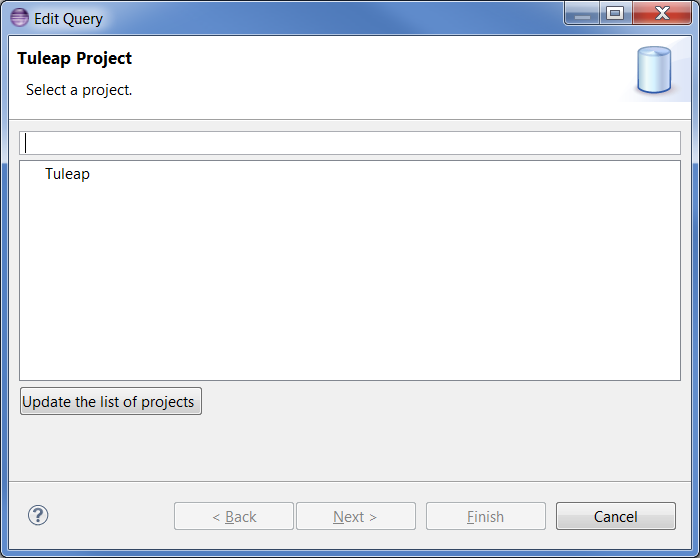
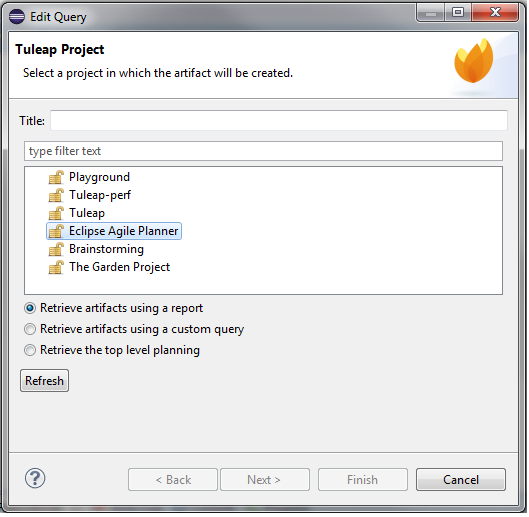
Improve connector documentation.

Changed region(s): [[0.0, 0.0, 1.0, 1.0]]

diff --git a/org.tuleap.mylyn.task.doc/html/maintopic.html b/org.tuleap.mylyn.task.doc/html/maintopic.html
@@ -1,106 +1,174 @@
 <!DOCTYPE HTML PUBLIC "-//W3C//DTD HTML 4.0 Transitional//EN">
 <html>
 <head>
-	<meta http-equiv="Content-Type" content="text/html; charset=iso-8859-1">
-	<title>User Documentation</title>
+<meta http-equiv="Content-Type" content="text/html; charset=iso-8859-1">
+<title>User Documentation</title>
 </head>
 
 <body>
 	<h1>Mylyn Connector for Tuleap - User Documentation</h1>
 	<h2>Install the connector</h2>
-	<p>
-		In order to install the connector, you can use the Eclipse Marketplace available from the
-		"Help -> Eclipse Marketplace" menu. In the marketplace, you just have to search for Tuleap
-		in order to find the latest version of the connector available.
-	</p>
-	
+	<p>In order to install the connector, you can use the Eclipse
+		Marketplace available from the "Help -> Eclipse Marketplace" menu. In
+		the marketplace, you just have to search for Tuleap in order to find
+		the latest version of the connector available.</p>
+
 	<h2>Connect to a Tuleap server</h2>
-	<p>
-		To establish a connection with a Tuleap server, you need to go in the Task Repositories or Team
-		Repositories view in order to create a new Mylyn repository. Select the Task connector "Tuleap
-		Repository Connector" and click next.
-	</p>
+	<p>To establish a connection with a Tuleap server, you need to go
+		in the Task Repositories or Team Repositories view in order to create
+		a new Mylyn repository. Select the Task connector "Tuleap Repository
+		Connector" and click next.</p>
 	<img src="../images/create_repository.png" />
-	<p>
-		In the next page of the wizard, you have access to the page used to connect to the Tuleap server.
-		Use the URL of the trackers of your Tuleap project along with your Tuleap username and password to
-		connect to the Tuleap server as shown in the following screenshot.
-	</p>
+	<p>In the next page of the wizard, you have access to the page used
+		to connect to the Tuleap server. Use the URL of the trackers of your
+		Tuleap project along with your Tuleap username and password to connect
+		to the Tuleap server as shown in the following screenshot.</p>
 	<img src="../images/repository_settings.png" />
-	<p>
-		Your login and password will be valited prior to the connection but you can force the verification
-		to ensure that your credentials are valid. Do not forget to make sure that the connector will
-		remember your password by checking the associated checkbox.
-	</p>
-	
+	<p>Your login and password will be valited prior to the connection
+		but you can force the verification to ensure that your credentials are
+		valid. Do not forget to make sure that the connector will remember
+		your password by checking the associated checkbox.</p>
+
 	<h2>Create a query</h2>
-	<p>
-		Once you have created your repository, Mylyn Task will ask you to create a query in order to retrieve
-		your tasks from the Tuleap server. You can use the new Query wizard in order to create your query. First
-		you will have to select the project for which you want to create the query.
-	</p>
+	<p>Once you have created your repository, Mylyn Task will ask you
+		to create a query in order to retrieve your tasks from the Tuleap
+		server. You can use the new Query wizard in order to create your
+		query. First you will have to select the project for which you want to
+		create the query.</p>
 	<img src="../images/create_query_select_project.png" />
-	<p>
-	    Once your project is selected, you will see the list of all the trackers of the selected project.
-	</p>
+	<p>Once your project is selected, you have to select the type of
+		query to perform. In fact, there are three types of queries. The first
+		one uses reports relying on a specific tracker of the selected
+		project. To create a such query, you can select the first alternative
+		and give a name to your query. Then you can select the concerned
+		tracker and validate your choice.</p>
 	<img src="../images/create_query_select_tracker.png" />
-	<p>
-		In this wizard, you can create two kinds of queries: locally created ones or queries saved on the server.
-		In your Tuleap project, you may have created reports in order to vizualize a specific set of tasks matching
-		a set of critera, you can execute those reports directly from the Mylyn Connector for Tuleap. you can
-		also define new queries directly in Eclipse.
-	</p>
-	<img src="../images/create_query_reports.png" />
-	<p>
-	    You can access your reports from the third page of the wizard or you can continue to the fourth page to create
-	    a custom query.
-	</p>
+	<p>The second type relies on a specific set of criteria, in order
+		to filter the results according to these criteria. There is one
+		criterion per field, and each criterion entered is used to filter the
+		results returned. Just leave a criterion empty (as it is by default)
+		if you don't want to use it to filter the results. A query is somewhat
+		like a Tuleap report, except the criteria are stored in your eclipse,
+		not on the Tuleap server. So, such a query cannot be shared with other
+		users.</p>
 	<img src="../images/custom_query.png" />
-	<p>
-		When your query has been executed by Mylyn Task, its result will be available in the Task List view.
-		In this view, you can see the list of the tasks matching your query along with the completion of the query.
-	</p>
-	
+	<p>The third type of query is used to access the Top-level
+		planning. The top-level planning allows you to plan top-level backlog
+		items in top-level milestones. For instance, if you use Sprints in
+		Releases, you'll be able to plan which backlog items should go into
+		which release. To do so, you can select the relevant project, select
+		the third alternative and validate your query.</p>
+	<img src="../images/top_planning_query.png" />
+	<p>When your query has been executed by Mylyn Task, its result will
+		be available in the Task List view. In this view, you can see the list
+		of the tasks matching your query along with the completion of the
+		query.</p>
+
 	<h2>Display and edit tasks</h2>
-	<p>
-		If you want to display a specific task, you just have to double click on it from the Task List view.
-	</p>
+	<p>If you want to display a specific task, you just have to double
+		click on it from the Task List view.</p>
 	<img src="../images/task_editor.png" />
-		
+
 	<h2>Update a task</h2>
-	<p>
-		Once modified, you can update the task on the Tuleap server by using the "Submit" button on top of the
-		editor.
-	</p>
-	
+	<p>Once modified, you can update the task on the Tuleap server by
+		using the "Submit" button on top of the editor.</p>
+
 	<h2>Add attachments</h2>
-	<p>
-		If the configuration of your Tuleap tracker allows it, you can add attachments to your task directly
-		from the Tuleap task editor.
-	</p>
+	<p>If the configuration of your Tuleap tracker allows it, you can
+		add attachments to your task directly from the Tuleap task editor.</p>
 	<img src="../images/attachments.png" />
-	<p>
-		You can also use the screenshot tooling to directly attach a screenshot with various annotations. 
-	</p>
+	<p>You can also use the screenshot tooling to directly attach a
+		screenshot with various annotations.</p>
 	<img src="../images/screenshot_attachment_editor.png" />
-	
+
 	<h2>Link with the context</h2>
-	<p>
-		Mylyn Task will let you activate a specific task thanks to the round button in the Task List view and
-		at the top of the task editor. Once a task has been activated, all manipulated elements will be linked
-		with the active task. You can see those linked element in the context tab of the task editor. When you
-		are done working on a specific task, you just need to uncheck the activate task button. The task and its
-		context will then be closed.
-	</p>
+	<p>Mylyn Task will let you activate a specific task thanks to the
+		round button in the Task List view and at the top of the task editor.
+		Once a task has been activated, all manipulated elements will be
+		linked with the active task. You can see those linked element in the
+		context tab of the task editor. When you are done working on a
+		specific task, you just need to uncheck the activate task button. The
+		task and its context will then be closed.</p>
 	<img src="../images/context.png" />
-	<p>
-		You can easily retrieve the context of a task by re-activating it. All the elements of the context that
-		you had used will be reopened. 
-	</p>
-	<p>
-		You can easily attach the context of a task as an attachment and submit it on the Tuleap server. You
-		can retrieve the context from an attachment too.
-	</p>
-	
-</body>
+	<p>You can easily retrieve the context of a task by re-activating
+		it. All the elements of the context that you had used will be
+		reopened.</p>
+	<p>You can easily attach the context of a task as an attachment and
+		submit it on the Tuleap server. You can retrieve the context from an
+		attachment too.</p>
+	<h2>Display a task planning</h2>
+	<p>If you want to display a task planning, you just have to open
+		the task and go under the "Planning" tab.</p>
+	<p>In the case of a "top planning", the releases are sorted by date
+		descending on the right and the backlog is displayed on the left.</p>
+	<img src="../images/display_task_planning.png" />
+	<p>In the case of a "release planning", the release's sprints are
+		sorted by date descending on the right and the backlog is displayed on
+		the left.</p>
+	<p>In the case of a "sprint planning", the sprints's sub-milestones
+		are sorted by date descending on the right, the backlog is displayed
+		on the bottom left and the burn-down chart on the up left. When there
+		are no sub-milestones, the backlog is displayed on the right, and the
+		burn-down chart is displayed on the left. If there is no burn-down
+		chart, then the backlog occupy the whole planning tab.</p>
+	<h2>Organize planning artifacts</h2>
+	<p>If you want to organize artifacts belonging to backlog, releases
+		or sprints, you can select one or many ones and then drag and drop
+		them on target.</p>
+	<img src="../images/organize_planning_artifacts.png" />
+	<h2>Expand and collapse milestones</h2>
+	<p>You have the possibility to expand and collapse milestones one
+		by one, or all at once.</p>
+	<p>- To expand a milestone, click on the small triangle that is
+		pointing right on the left of milestone's name.</p>
+	<p>- To collapse a milestone, click on the small triangle that is
+		pointing down on the left of milestone's name.</p>
+	<p>- To expand all milestones at once, click on the "plus" icon on
+		the top right of milestones section.</p>
+	<p>- To collapse all milestones at once, click on the "minus" icon
+		on the top right of milestones section.</p>
+	<img src="../images/expand_collapse_planning.png" />
+	<h2>Create a new artifact in a milestone's backlog</h2>
+	<p>You have the possibility to create an artifact directly from the
+		planning editor. To do so, click on the "plus" icon on the top right
+		of the backlog. Then the list of available trackers will be displayed.
+		Choose the tracker and validate your choice.</p>
+	<img src="../images/create_new_planning_artifact.png" />
+	<h2>Display a task card wall</h2>
+	<p>If you want to display a task card wall, you just have to open
+		the task and go under the "Card Wall" tab.</p>
+	<p>Every card displays its type and its identifier as a link. When
+		clicking on this link, the task is opened.</p>
+	<img src="../images/display_cardwall.png" />
+	<h2>Direct edition on cards</h2>
+	<p>You have the possibility to direct edit the card details. To do
+		so, you can click a first time on the field value in order to select
+		it and then a second time in order to enter the edit mode for this
+		field.</p>
+	<img src="../images/direct_edit_cards.png" />
+	<h2>Organize cards on card wall</h2>
+	<p>Cards could be organized with drag-and-drop to indicate their
+		states. If the target column belongs to the cards' authorized columns,
+		the moved card is displayed on this column. If the target column does
+		not belong to the cards' authorized columns, a banning sign is
+		displayed.</p>
+	<img src="../images/organize_cards.png" />
+	<h2>Expand and collapse cells cards</h2>
+	<p>You have the possibility to expand and collapse cells cards one
+		by one, or all column cells cards at once.</p>
+	<p>- To expand a cell cards, click on the "plus" sign on the top
+		right of the cell.</p>
+	<p>- To collapse a cell cards, click on the "minus" sign on the top
+		right of the cell.</p>
+	<p>- To expand all column cells cards at once, click on the "plus"
+		icon on the right of the column's name.</p>
+	<p>- To collapse all column cells cards at once, click on the
+		"minus" icon on the right of the column's name.</p>
+	<img src="../images/expand_collapse_cardwall.png" />
+	<h2>Create a new card</h2>
+	<p>You have the possibility to create a card directly from the card
+		wall editor. To do so, click on the "plus" icon on the top right of a
+		card. Then the list of available trackers will be displayed. Choose
+		the tracker and validate your choice.</p>
+	<img src="../images/create_new_card.png" />
 </html>
